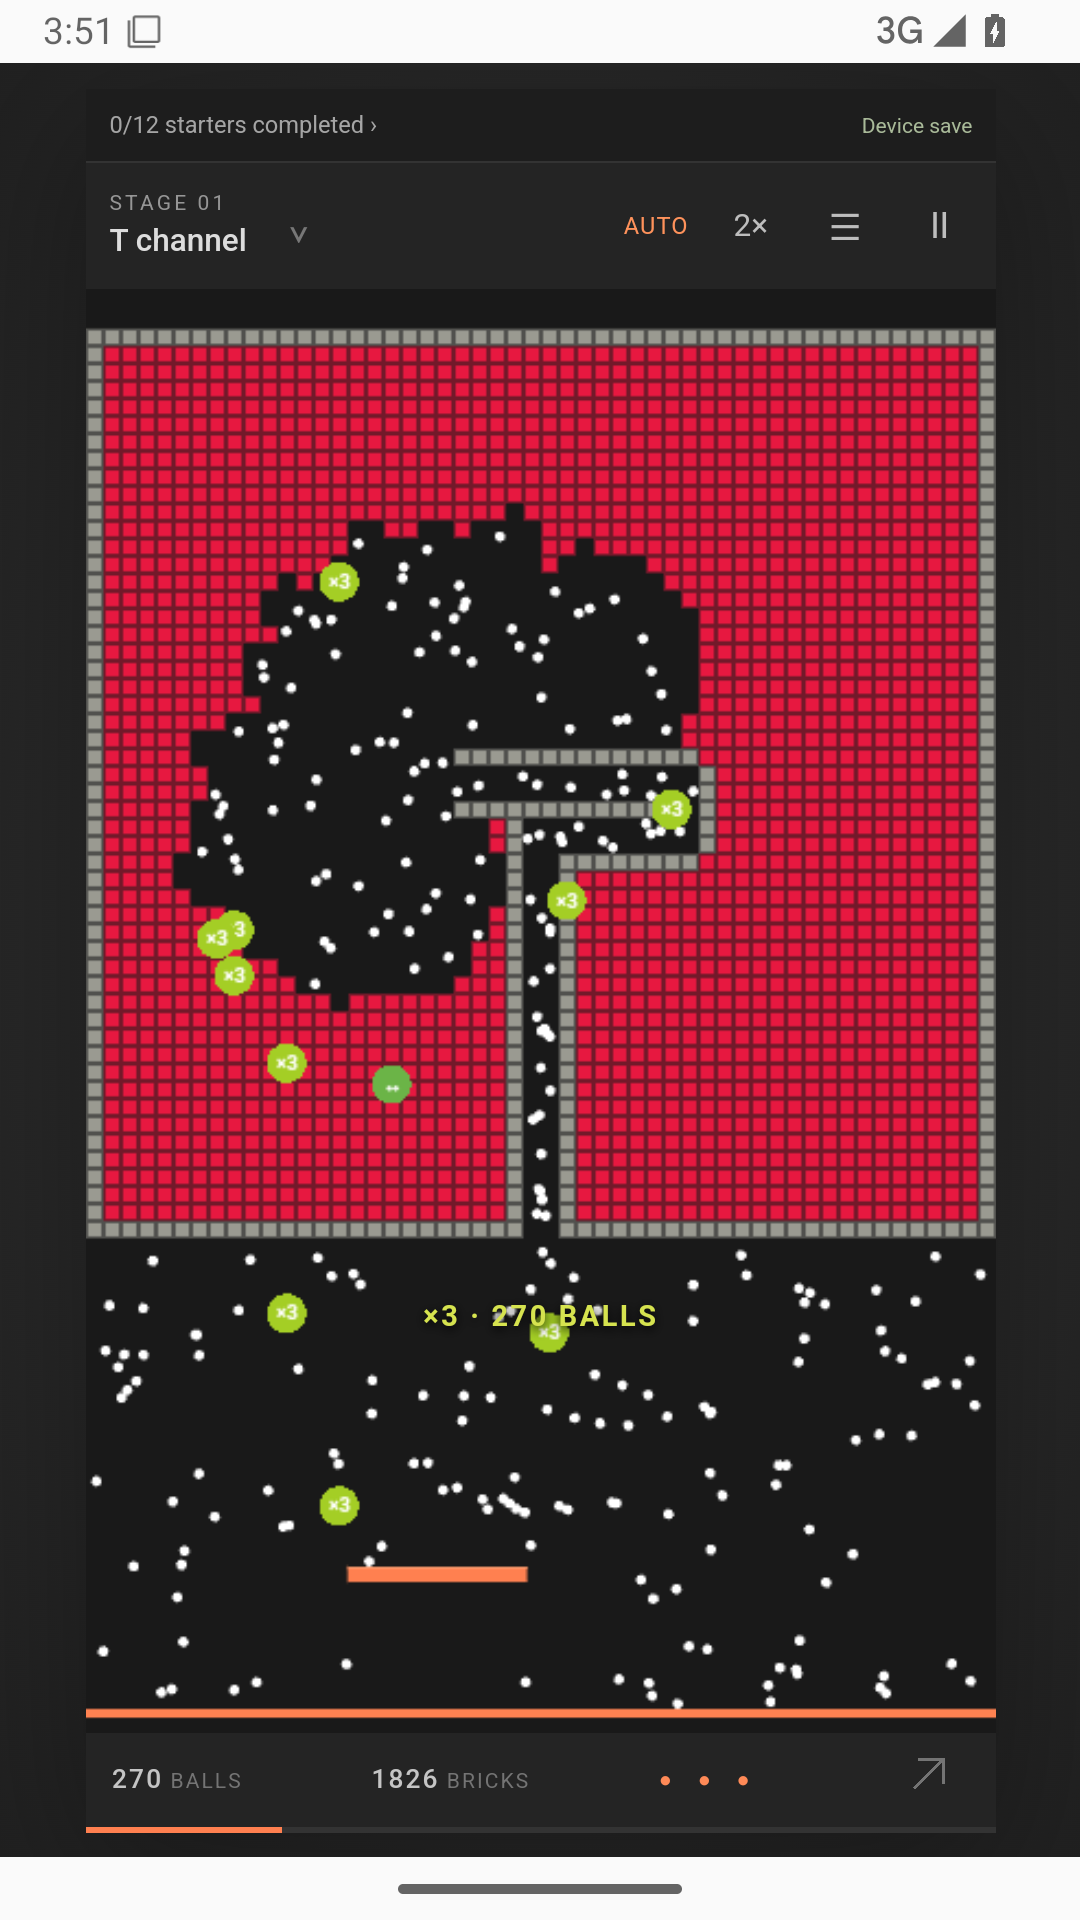
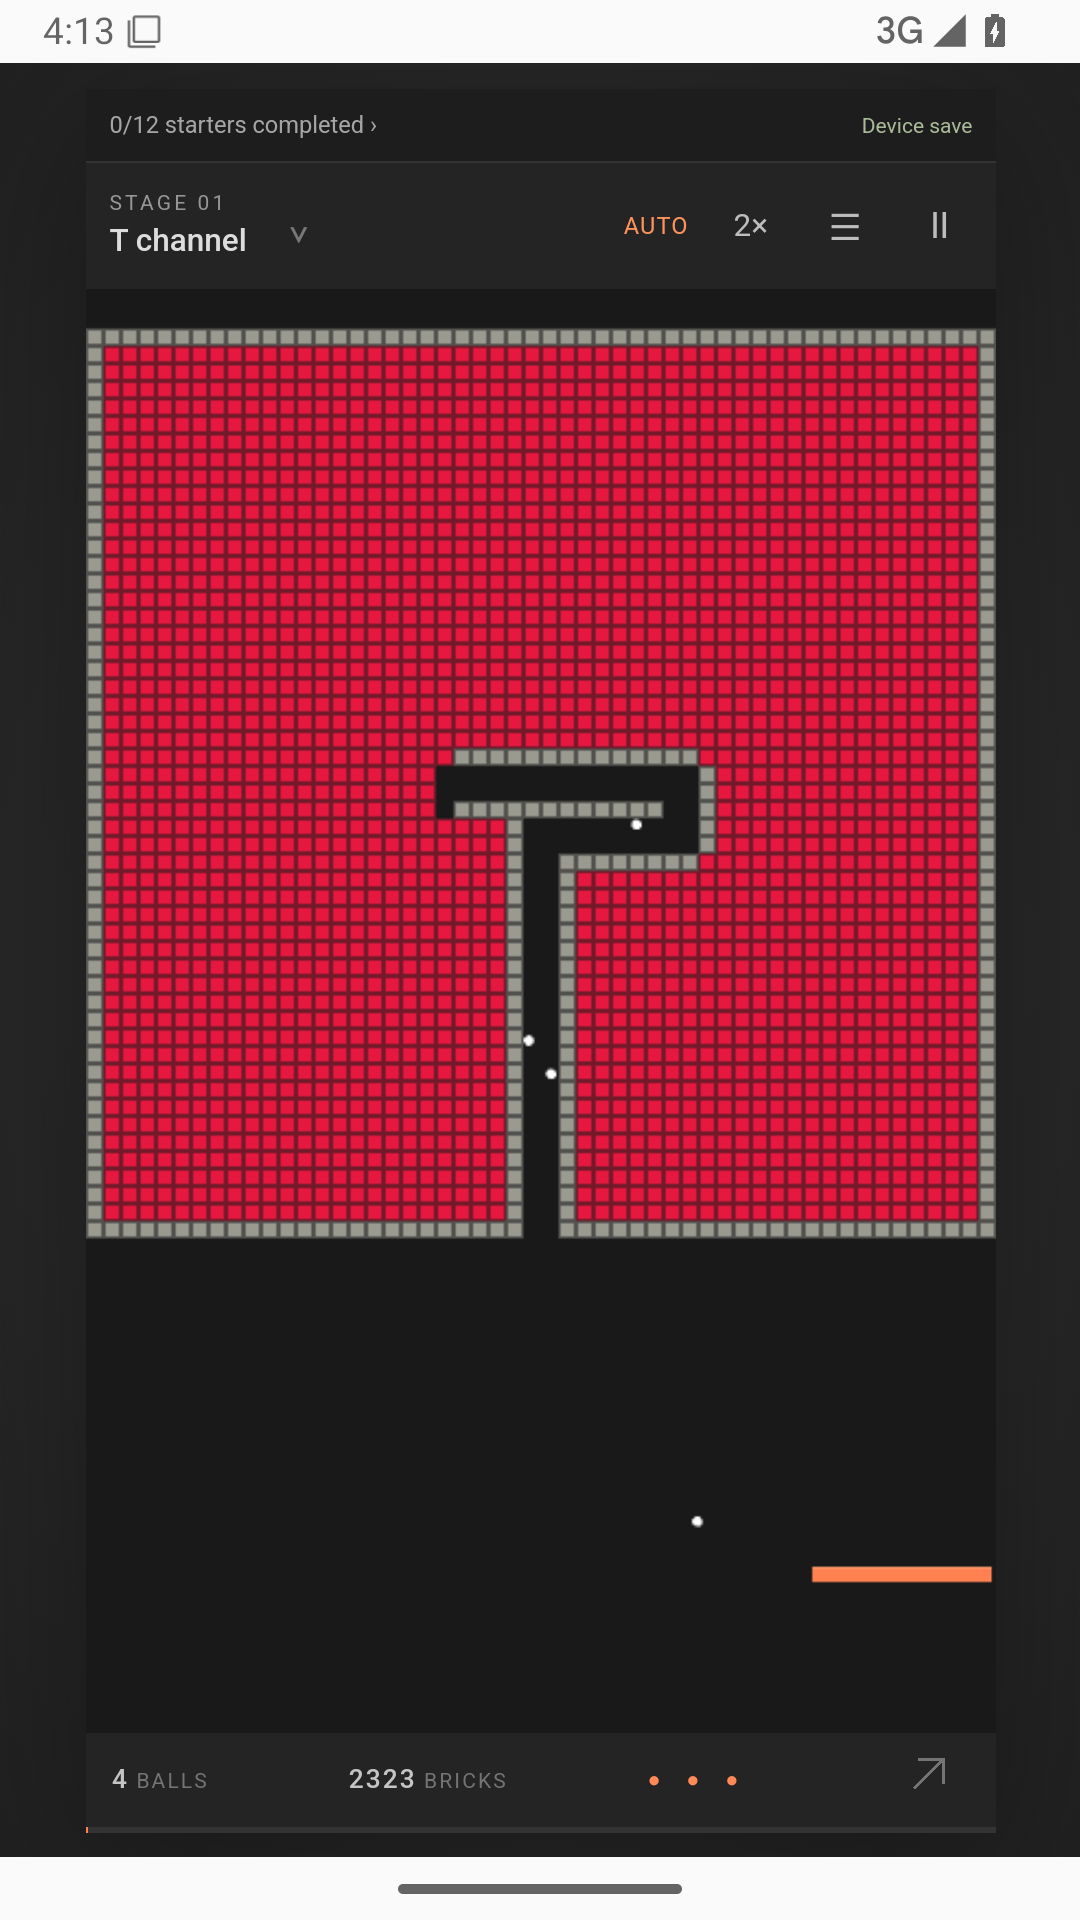
Update Site source

diff --git a/CHANDRAHAS-LAUNCH-GUIDE.md b/CHANDRAHAS-LAUNCH-GUIDE.md
@@ -37,6 +37,7 @@ Passing that script checks source/configuration, not store approval or live oper
 - Completing **all twelve** unlocks 13. Completing 13 unlocks 14, and so on. Replaying a completed stage does not unlock extra stages.
 - Future journey cards show a lock, with no pattern preview. Tapping one tells the player which stage(s) to finish and offers the required stage.
 - Generated layouts use graph construction, varied chambers, branches, loops and sixteen architecture families. They are not transformations of the starter twelve. A finite grid cannot honestly guarantee mathematically infinite different boards; describe this as an expanding, procedurally generated journey.
+- Every eight journey clears completes a chapter. The map shows chapter, challenge label and clears remaining. Ball speed, paddle control and layout complexity change gradually within safe bounds; early breakthrough boosts remain. Sixteen shuffled architecture styles include petals, crystals, arches, ribbons and mandalas. See dist/difficulty.js and docs/ARCHITECTURE.md for the curve. Existing cached guest boards stay stable; newly generated boards use the expanded recipes.
 - Guest progress is local. Optional accounts synchronize completed stages, selected stage and personal history. The exact in-progress field/swarm is a **device-local** snapshot, not cross-device live simulation.
 - Guest detailed history keeps starters plus the most recent 128 generated records. Completion ticks/frontier persist beyond that. Cloud history is paginated and retains per-stage summaries. There is no replay-by-replay event log.
 - Existing v2 selected-stage state is not treated as evidence of completion; the prior best score can migrate.
@@ -134,6 +135,8 @@ Do not delete a real player's account to test. Use explicit disposable test acco
 
 There is no competitive leaderboard, currency, purchase, prize, or server-authoritative replay verification. An account owner can forge their own client-reported progress/import. Hash checks, run IDs, score bounds and rate limits stop some mistakes/abuse, but are **not anti-cheat certification**. Add server replay validation before any competitive or monetary feature. Import is bounded to a frontier of 1,000,000 in this version; normal audited advancement uses safe integer levels. "Unlimited" is product shorthand for an expanding catalog, not infinite storage or a mathematical guarantee.
 
+Unpublished catalog generation is budgeted per account at 120 authorizations per ten minutes through the second migration. Importing progress does not reset this quota; existing shared stages remain available. This is an abuse limit, not a paid unlock or a change to normal progression.
+
 Monitor function failures/latency, auth send failures, database size and catalog prefetch failures. Never log tokens, email codes, passwords or full request bodies. Configure alerts and a support response process. Retain/expire infrastructure logs consistently with the final privacy notice. Record the selected region, subprocessors, email provider, backup retention and deletion policy. Review RLS after each migration.
 
 Schedule a daily owner-side cleanup (Supabase Cron or another controlled job) for old attempts:
@@ -214,6 +217,6 @@ If another engineer/agent helps, give them this prompt: "Continue Brick Breaker 
 
 ## Candidate evidence
 
-The creative-pattern and gradual-difficulty update is being revalidated. Final build and launch evidence is recorded in docs/RELEASE-V3.md. Cloud/store owner gates above remain unchanged.
+Application commit: fd824b5df628c24f877999d6a3a22fa307f82f1b. Both native builds passed: https://github.com/speedinno/brick-breaker/actions/runs/39542142668 . The compiled Android/iPhone launch checks also passed: https://github.com/speedinno/brick-breaker/actions/runs/39542592444 . There are 38 current automated tests including the subsequent backend-only generation-budget check. See docs/RELEASE-V3.md and docs/RED_TEAM.md for evidence and limits.
 
-Candidate downloads: https://github.com/speedinno/brick-breaker/releases/tag/v3.0.0-rc.1.
+Candidate packages/source: https://github.com/speedinno/brick-breaker/releases/tag/v3.0.0-rc.1 . The Android APK is debug signed; AAB and iOS archive are unsigned. Store signing and real-device/cloud validation remain your responsibility.

diff --git a/docs/RELEASE-V3.md b/docs/RELEASE-V3.md
@@ -1,5 +1,16 @@
-# Creative patterns and gradual difficulty — candidate evidence
+# Creative patterns and gradual difficulty — release-candidate evidence
 
-The latest update adds sixteen architecture styles, shuffled style bags, eight-stage chapter goals, and a bounded gradual control/layout difficulty curve. Local 38-test, syntax/parity and Deno checks passed. Native packages are being rebuilt; prior v3 packages/checks are historical until the new run is recorded.
+Compiled application commit: `fd824b5df628c24f877999d6a3a22fa307f82f1b`. Backend generation-budget hardening follows in source commit `dd2f381a68e4895ad341543981a8da0222aacb03`; it changes no compiled web/native application asset.
 
-Owner gates remain: Supabase, SMTP/support, real-device beta, signing and stores. See CHANDRAHAS-LAUNCH-GUIDE.md.
+- [Android and iOS builds](https://github.com/speedinno/brick-breaker/actions/runs/39542142668): both passed.
+- [Compiled native launch checks](https://github.com/speedinno/brick-breaker/actions/runs/39542592444): both passed on those exact artifacts. Android checks offline native rendering, 12 starter cards/locked stage 13, AUTO brick destruction, pause/resume and process relaunch. iPhone Simulator launch/relaunch screenshots were inspected.
+- [Creative application checks](https://github.com/speedinno/brick-breaker/actions/runs/39542142691): 37 checks passed before backend hardening. [Backend hardening checks](https://github.com/speedinno/brick-breaker/actions/runs/39542801807) passed with the additional catalog-budget regression, for 38 total.
+- [Public web deployment](https://github.com/speedinno/brick-breaker/actions/runs/39542157281): passed. Generated layouts, difficulty module, engine, app, journey UI and service worker matched deployed source on verification.
+
+The system has sixteen shuffled architecture styles and eight-stage chapter goals. Difficulty rises smoothly within bounded control/physics limits. Tests cover 1,000 canonical generated layouts, 256 consecutive shared publications under the recent-layout filter, starter/journey progression, all twelve starter clears, sixteen early journey clears, and later levels 36, 60, 100, 180, 350 and 750 with two simulation seeds each. These are representative checks, not a proof for every future board or seed.
+
+Browser QA on an isolated localhost origin confirmed chapter labels/goals, completion ticks, exact lock messages and a real clear of revised stage 14 unlocking stage 15. Earlier simulated progression came from an explicitly labeled disposable fixture, not human-earned history. Sixteen design previews were inspected together. Existing cached guest boards remain stable; new generations use the expanded recipes.
+
+Package audit: [package-audit-v3.json](native/package-audit-v3.json). Both iOS Info.plists report version 3.0.0/build 3/minimum 15.4. App and embedded Capacitor/Cordova privacy manifests are present. Android APK/AAB contain no native ELF .so libraries. Game assets, difficulty code and dependency notices match committed source in all three compiled application packages.
+
+Cloud remains disabled pending Chandrahas's owner-managed Supabase project, custom SMTP and support mailbox. Hosted two-account synchronization/export/deletion, backup/cleanup configuration, physical-device beta, signing and store review remain owner gates. The root CHANDRAHAS-LAUNCH-GUIDE.md contains the procedure. This candidate is not globally store-published.
